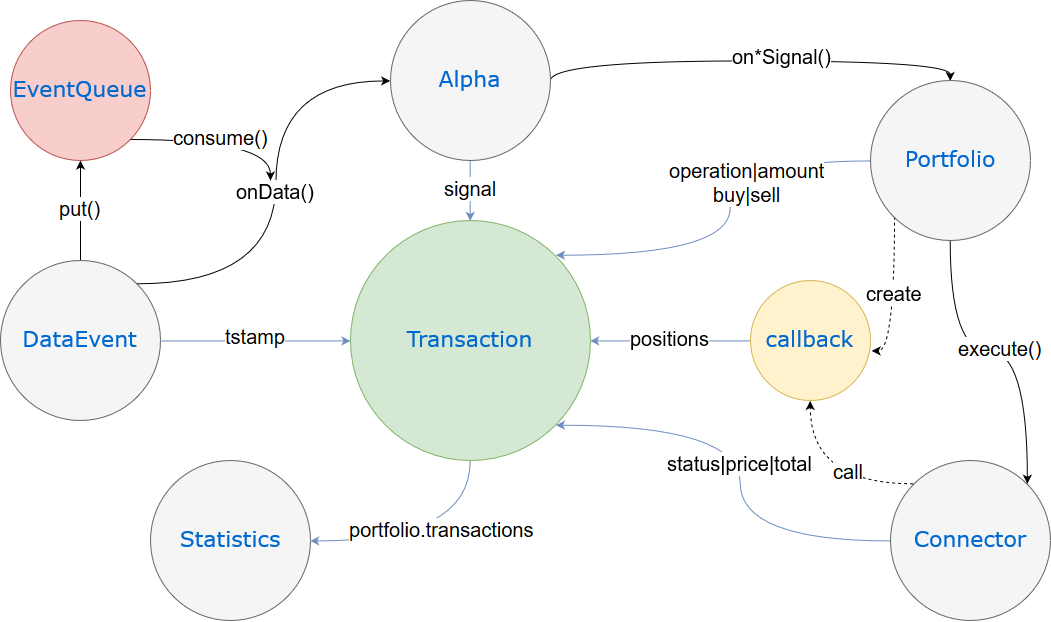
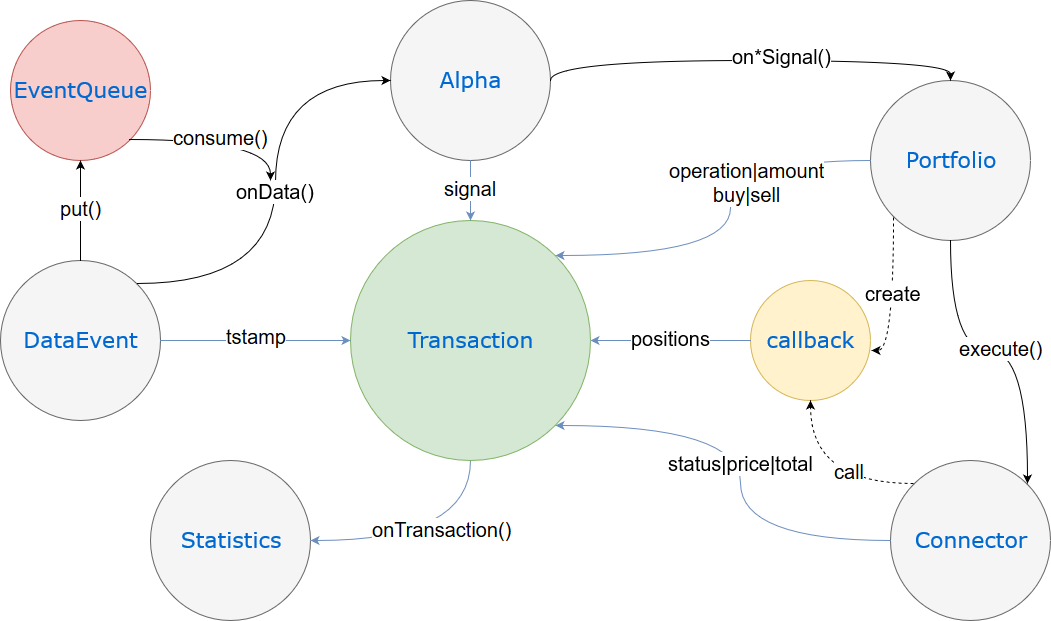
add manifest and parser change the logic of statistics signal value to float

diff --git a/presso/connector/coinbase_history.py b/presso/connector/coinbase_history.py
@@ -1,30 +1,21 @@
 import numpy
 
 from presso.core.abstract.connector import AbstractConnector
-from presso.core.util.constants import DATA_ROOT_PATH, OPERATION, STATUS, TICKER
+from presso.core.util.constants import OPERATION, STATUS, TICKER
 
 
-DATA_PATH = '%s/%s' % (DATA_ROOT_PATH, 'coinbaseUSD_1-min_data_2017-10-20.csv')
 
 class CoinbaseHistory(AbstractConnector):
-    _instance = None
-
-    def __getPrice(self, tstamp):
-        index = int(tstamp - self.__const) // 60
-        return self.__data[index]
-
-    def __init__(self):
-        data = numpy.loadtxt(DATA_PATH, delimiter=',')
-        self.__const = data[0][0]
-        self.__data = [line[7] for line in data]
+    def _init(self):
+        pass
 
     async def execute(self, transaction):
         if transaction.operation == OPERATION.MARKET:
             if transaction.amount:
                 if transaction.buy == TICKER.BTC and transaction.sell == TICKER.USD:
-                    transaction.price = self.__getPrice(transaction.tstamp)
+                    transaction.price = self._dataevents['coinbase_history'].getHistory(1)[0]
                     transaction.total = transaction.amount * transaction.price
                 elif transaction.buy == TICKER.USD and transaction.sell == TICKER.BTC:
-                    transaction.price = 1 / self.__getPrice(transaction.tstamp)
+                    transaction.price = 1 / self._dataevents['coinbase_history'].getHistory(1)[0]
                 transaction.total = transaction.amount * transaction.price
                 transaction.status = STATUS.SUCCESS

diff --git a/presso/core/abstract/portfolio.py b/presso/core/abstract/portfolio.py
@@ -1,14 +1,14 @@
 import asyncio
-import sys
 
 from presso.core.util.constants import STATUS
-from presso.core.util.eventqueue import EventQueue
 
 
 class AbstractPortfolio:
-    def __init__(self):
+    def __init__(self, connectors, statistics, config):
+        self._connectors = connectors
+        self._statistics = statistics
+        self._config = config
         self._transactions = []
-        self._statistics = []
         self._positions = {}
         self._init()
 
@@ -22,25 +22,10 @@ class AbstractPortfolio:
                 transaction.portfolio = self._positions.copy()
         task.add_done_callback(__callback)
 
-    def _run_statistics(self):
-        for stat in self._statistics:
-            stat.run(self._transactions)
-
-    def run(self):
-        loop = asyncio.get_event_loop()
-        event_queue = EventQueue.getInstance()
-        async def main():
-            # Let DataEvents to run first
-            await asyncio.sleep(1)
-            while True:
-                await event_queue.consume()
-        # Press ENTER to stop eventloop and run statistics
-        loop.add_reader(sys.stdin, loop.stop)
-        try:
-            loop.run_until_complete(main())
-        except RuntimeError:
-            print('Event Loop Stopped')
-        self._run_statistics()
+    def runStatistics(self):
+        for transaction in self._transactions:
+            for stat in self._statistics:
+                stat.onTransaction(transaction)
 
     def _init(self):
         raise NotImplementedError

diff --git a/presso/core/abstract/dataevent.py b/presso/core/abstract/dataevent.py
@@ -7,21 +7,19 @@ from presso.core.util.eventqueue import EventQueue
 
 
 class AbstractDataEvent:
+    def __init__(self, datapath, config):
+        self._datapath = datapath
+        self._config = config
+        self._alphas = set()
+        self._history = None
+        asyncio.ensure_future(self._start())
+        self._init()
+
     def addAlpha(self, alpha):
         self._alphas.add(alpha)
 
     def getHistory(self, num=0):
         return self._history[-num:]
-
-    @classmethod
-    def getInstance(cls):
-        if not cls._instance:
-            inst = cls()
-            inst._alphas = set()
-            inst._history = None
-            asyncio.ensure_future(inst._start())
-            cls._instance = inst
-        return cls._instance
 
     def sendData(self, data):
         self._saveHistory(data)
@@ -42,6 +40,9 @@ class AbstractDataEvent:
             # Wait for previous event to be consumed
             await event_queue.put(self, data)
         event_queue.remove(self)
+
+    def _init(self):
+        raise NotImplementedError
 
     async def _iter(self):
         raise NotImplementedError

diff --git a/presso/core/abstract/alpha.py b/presso/core/abstract/alpha.py
@@ -2,7 +2,10 @@ from datetime import datetime
 
 
 class AbstractAlpha:
-    def __init__(self, portfolio):
+    def __init__(self, portfolio, main_dataevent, dataevents, config):
+        self._main_dataevent = main_dataevent
+        self._dataevents = dataevents
+        self._config = config
         # Check if portfolio has handler function
         callback_name = 'on%sSignal' % self.name
         if hasattr(portfolio, callback_name):
@@ -22,9 +25,8 @@ class AbstractAlpha:
         raise NotImplementedError
 
     async def onData(self, transaction, data):
-        signal = int(await self._calcSignal(data))
-        # Avoid using python float for signal value
-        if signal > 9999 or signal < -9999:
-            raise ValueError('Signal value should between +/-9999')
+        signal = await self._calcSignal(data)
+        if signal > 1 or signal < -1:
+            raise ValueError('Signal value should between +/-1')
         transaction.signal = signal
         self._callback(transaction)

diff --git a/presso/portfolio/simple.py b/presso/portfolio/simple.py
@@ -1,15 +1,9 @@
-from presso.alpha.printer import PrinterAlpha
-from presso.statistics.printer import PrinterStatistics
-from presso.connector.coinbase_history import CoinbaseHistory
 from presso.core.abstract.portfolio import AbstractPortfolio
 from presso.core.util.constants import OPERATION, TICKER
 
 
 class SimplePortfolio(AbstractPortfolio):
     def _init(self):
-        self.__printer = PrinterAlpha(self)
-        self.__coinbase = CoinbaseHistory()
-        self._statistics.append(PrinterStatistics())
         self._positions[TICKER.USD] = 100000
         self._positions[TICKER.BTC] = 0
 
@@ -23,7 +17,4 @@ class SimplePortfolio(AbstractPortfolio):
             transaction.buy = TICKER.USD
             transaction.sell = TICKER.BTC
             transaction.amount = 10000
-        self._execute(self.__coinbase, transaction)
-
-
-SimplePortfolio().run()
+        self._execute(self._connectors['coinbase_history'], transaction)

diff --git a/presso/dataevent/coinbase_history.py b/presso/dataevent/coinbase_history.py
@@ -1,16 +1,11 @@
 import numpy
 
 from presso.core.abstract.dataevent import AbstractDataEvent
-from presso.core.util.constants import DATA_ROOT_PATH
 
-
-DATA_PATH = '%s/%s' % (DATA_ROOT_PATH, 'coinbaseUSD_1-min_data_2017-10-20.csv')
 
 class CoinbaseHistory(AbstractDataEvent):
-    _instance = None
-
-    def __init__(self):
-        self.__data = numpy.loadtxt(DATA_PATH, delimiter=',')
+    def _init(self):
+        self.__data = numpy.loadtxt(self._datapath, delimiter=',')
 
     async def _iter(self):
         for data in self.__data:

diff --git a/presso/alpha/printer.py b/presso/alpha/printer.py
@@ -1,17 +1,15 @@
 import random 
 
 from presso.core.abstract.alpha import AbstractAlpha
-from presso.dataevent.coinbase_history import CoinbaseHistory
 
 
 class PrinterAlpha(AbstractAlpha):
     def _init(self):
-        self.__coinbase_h = CoinbaseHistory.getInstance()
-        self.__coinbase_h.addAlpha(self)
+        pass
 
     async def _calcSignal(self, data):
         print(data)
-        return (random.random() - 0.5) * 20000
+        return (random.random() - 0.5) * 2
 
     @property
     def name(self):

diff --git a/presso/core/abstract/connector.py b/presso/core/abstract/connector.py
@@ -1,9 +1,11 @@
 class AbstractConnector:
-    @classmethod
-    def getInstance(cls):
-        if not cls._instance:
-            cls._instance = cls()
-        return cls._instance
+    def __init__(self, dataevents, config):
+        self._dataevents = dataevents
+        self._config = config
+        self._init()
+
+    def _init(self):
+        raise NotImplementedError
 
     async def execute(self, transaction):
         raise NotImplementedError

diff --git a/presso/statistics/printer.py b/presso/statistics/printer.py
@@ -2,6 +2,8 @@ from presso.core.abstract.statistics import AbstractStatistics
 
 
 class PrinterStatistics(AbstractStatistics):
-    def run(self, transactions):
-        for trans in transactions:
-            print(trans)
+    def _init(self):
+        pass
+
+    def onTransaction(self, transaction):
+        print(transaction)

diff --git a/presso/core/abstract/statistics.py b/presso/core/abstract/statistics.py
@@ -1,3 +1,10 @@
 class AbstractStatistics:
-    def run(self, transactions):
+    def __init__(self, config):
+        self._config = config
+        self._init()
+
+    def _init(self):
+        raise NotImplementedError
+
+    def onTransaction(self, transaction):
         raise NotImplementedError

diff --git a/presso/core/util/constants.py b/presso/core/util/constants.py
@@ -1,8 +1,6 @@
 from enum import Enum
 
 
-DATA_ROOT_PATH = 'data/history'
-
 MAX_TIMEOUT = 1
 
 STATUS = Enum('STATUS', ('SUCCESS', 'FAIL'))
